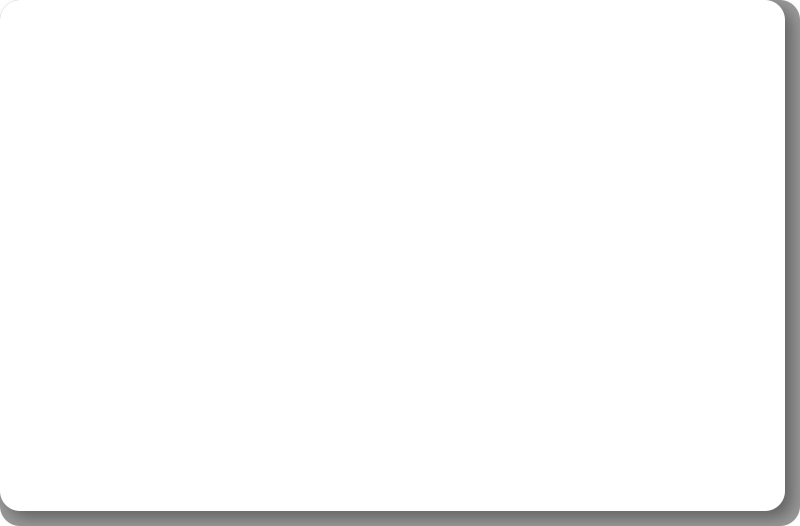
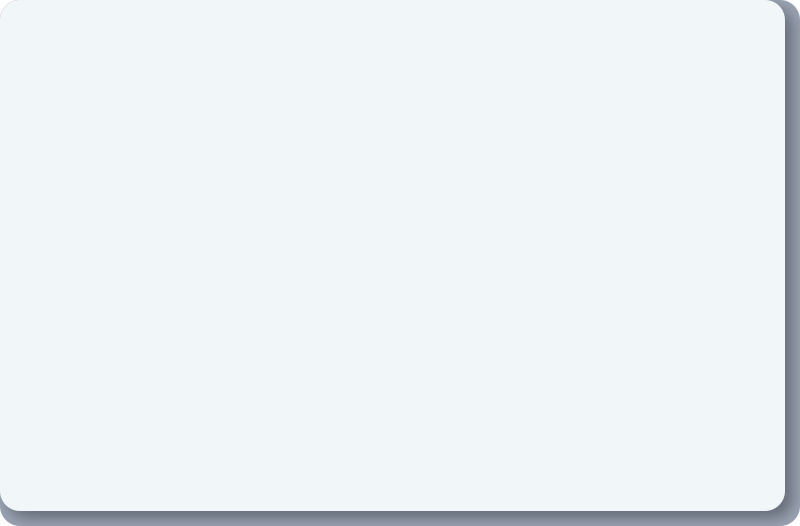
fix: front and back colors

Changed region(s): [[0.0, 0.0, 1.0, 1.0]]

diff --git a/main.py b/main.py
@@ -11,8 +11,8 @@ WIDTH = 800
 HEIGHT = 526
 FONT = "Arial"
 DELAY = 3000  # miliseconds
-FRONT_TEXT_COLOR = "#000000"
-BACK_TEXT_COLOR = "#FFFFFF"
+FRONT_TEXT_COLOR = "#394867"
+BACK_TEXT_COLOR = "#F1F6F9"
 LEARNING_WINDOW = 9
 REPETITION = 3
 DATABASE = "Swedish_10.csv"
